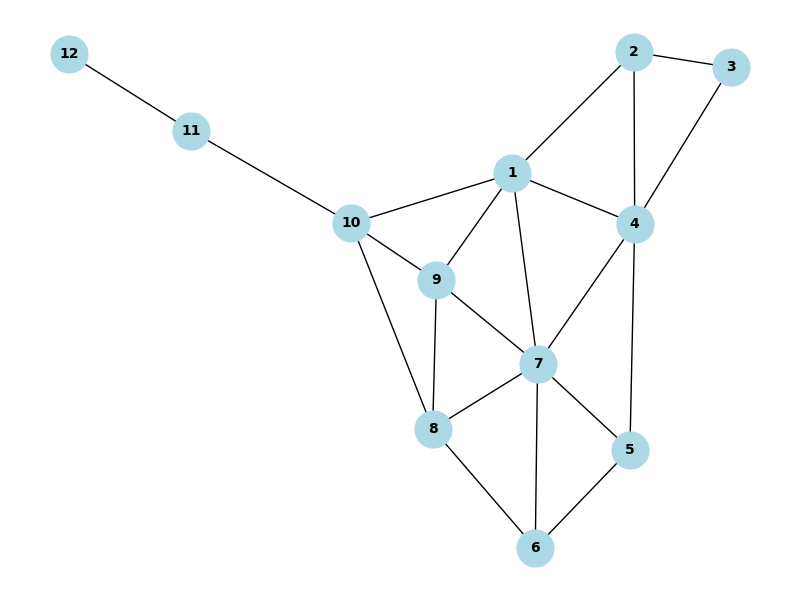
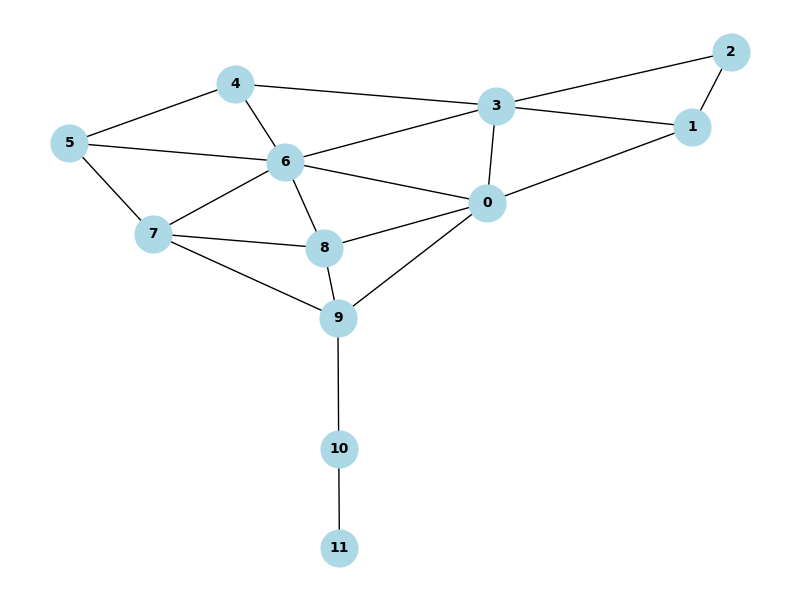
first working example with real data

diff --git a/SmartCityQCWizard/maxcut.py b/SmartCityQCWizard/maxcut.py
@@ -1,6 +1,9 @@
+import time
+
 import numpy as np
 import networkx as nx
 import matplotlib.pyplot as plt
+import pandas as pd
 
 from qibo import set_backend
 from qibo import Circuit, gates, callbacks
@@ -8,26 +11,59 @@ from qibo.models import AdiabaticEvolution
 
 from graph_utils import construct_graph, color_graph_by_bitstring
 from hamiltonians_utils import construct_H0, construct_H1
+from prepare_data import zones_data_by_datetime
 
 set_backend("numpy")
 
 # Define edges based on the user's topology
+# edges = [
+#     # (0, 1), (0, 2), (0, 3), (0, 6), (0, 8), (0, 10), (0, 11), (0, 12),
+#     (1, 2), (1, 4), (1, 7), (1, 9), (1, 10),
+#     (2, 3), (2, 4),
+#     (3, 4),
+#     (4, 5), (4, 7),
+#     (5, 6), (5, 7),
+#     (6, 8), (6, 7),
+#     (7, 8), (7, 9),
+#     (8, 9), (8, 10),
+#     (9, 10),
+#     (10, 11),
+#     (11, 12)
+# ]
+
 edges = [
-    # (0, 1), (0, 2), (0, 3), (0, 6), (0, 8), (0, 10), (0, 11), (0, 12),
-    (1, 2), (1, 4), (1, 7), (1, 9), (1, 10),
-    (2, 3), (2, 4),
-    (3, 4),
-    (4, 5), (4, 7),
-    (5, 6), (5, 7),
-    (6, 8), (6, 7),
+    (0, 1), (0, 3), (0, 6), (0, 8), (0, 9),
+    (1, 2), (1, 3),
+    (2, 3),
+    (3, 4), (3, 6),
+    (4, 5), (4, 6),
+    (5, 7), (5, 6),
+    (6, 7), (6, 8),
     (7, 8), (7, 9),
-    (8, 9), (8, 10),
+    (8, 9),
     (9, 10),
-    (10, 11),
-    (11, 12)
+    (10, 11)
 ]
 
-G, adjacency_matrix = construct_graph(edges=edges)
+# load data for a specific datetime
+df = pd.read_csv("unique_attendance_15/presenza_15_010824-140824.csv")
+datetime = "2024-08-01 23:45:00"
+
+zones_data = zones_data_by_datetime(df=df, datetime=datetime)
+print(f"Data zone by zone:\n{zones_data}")
+
+weights = []
+
+for edge in edges:
+    weights.append(
+        zones_data[str(int(edge[0])).zfill(3)] + zones_data[str(int(edge[1])).zfill(3)]
+    )
+
+# rescale into range [0,10]
+weights = np.array((weights - min(weights)) / (max(weights) - min(weights))) * 10
+print(f"Weights list: {weights}")
+
+G, adjacency_matrix = construct_graph(edges=edges, weights=weights)
 num_nodes = G.number_of_nodes()
 num_edges = len(G.edges)
 
@@ -51,7 +87,7 @@ evo = AdiabaticEvolution(
     h0 = h0,
     h1 = h1,
     s = lambda t: t,
-    dt = 0.1,
+    dt = 0.01,
     callbacks=[energy, state],
 )
 
@@ -63,10 +99,12 @@ c.add(gates.M(*range(num_nodes)))
 
 print("GS circuit: ", h0.expectation(c().state()))
 
+inital_time = time.time()
 # evolve
-evolved = evo(final_time=30, initial_state=c().state())
+evolved = evo(final_time=20, initial_state=c().state())
+print(f"\nTotal evolution time: {time.time() - inital_time}")
+
 idx = np.argmin(energy.results)
-last_idx = np.argmin(energy.results)
 
 # energies plot
 plt.figure(figsize=(8,6))
@@ -77,13 +115,28 @@ plt.savefig("./figures/energy.png")
 c = Circuit(num_nodes)
 c.add(gates.M(*range(num_nodes)))
 
-out = c(initial_state=state.results[idx], nshots=10000)
-freq = out.frequencies()
+out_best = c(initial_state=state.results[idx], nshots=10000)
+freq_best = out_best.frequencies()
 
-max_key = max(freq, key=lambda k: freq[k])
-print(max_key, freq[max_key])
+out_init = c(initial_state=state.results[0], nshots=10000)
+freq_init = out_init.frequencies()
+
+bitstring_best = max(freq_best, key=lambda k: freq_best[k])
+bitstring_init = max(freq_init, key=lambda k: freq_init[k])
 
 
-color_graph_by_bitstring(G, max_key, figname="final.png", weights=adjacency_matrix)
-color_graph_by_bitstring(G, "111111111111", figname="initial.png", weights=adjacency_matrix)
+print(f"bitstring best is {bitstring_best} with frequency {freq_best[bitstring_best]}")
+print(f"bitstring init is {bitstring_init} with frequency {freq_best[bitstring_init]}")
+
+# plot_probabilities_from_state(state=state[int(idx)])
+# Sort the dictionary by values in descending order and take the top 10 items
+sorted_items = sorted(freq_best.items(), key=lambda item: item[1], reverse=True)[:10]
+top_10_dict = dict(sorted_items)
+
+print("\n Showing the top states after optimization")
+for elem in top_10_dict:
+    print(f"bitstring: {elem}, with {top_10_dict[elem]} shots")  
+
+color_graph_by_bitstring(G, bitstring_best, figname="final", weights=adjacency_matrix)
+color_graph_by_bitstring(G, bitstring_init, figname="initial", weights=adjacency_matrix)
 

diff --git a/SmartCityQCWizard/plotscripts.py b/SmartCityQCWizard/plotscripts.py
@@ -1,0 +1,26 @@
+import matplotlib.pyplot as plt
+import numpy as np
+
+def generate_bitstring_combinations(n):
+    """Generate all bitstring combinations given bitstring length `n`."""
+    bitstrings = []
+    for i in range(2**n):
+        bitstrings.append(format(i, f"0{n}b"))
+    return bitstrings
+
+def plot_probabilities_from_state(state):
+    """Plot amplitudes for a given quantum `state`."""
+
+    bitstring = generate_bitstring_combinations(int(np.log2(len(state))))
+    
+    fig, ax = plt.subplots(figsize=(10, 5 * 6/8))
+    
+    ax.set_title('State visualization')
+    ax.set_xlabel('States')
+    ax.set_ylabel('Probability')
+    
+    for i, amp in enumerate(state):
+        ax.bar(bitstring[i], np.abs(amp)**2, color='#C194D8', edgecolor="black")
+        
+    plt.xticks(rotation=90)
+    plt.savefig("./figures/best_hist.png")

diff --git a/SmartCityQCWizard/graph_utils.py b/SmartCityQCWizard/graph_utils.py
@@ -36,12 +36,11 @@ def color_graph_by_bitstring(G, bitstring, figname, weights):
     nx.draw_networkx_edge_labels(G, pos, edge_labels=edge_labels, label_pos=0.5, font_size=12)  # label_pos=0.5 places them at the middle of the edges
     
     # Save the figure
-    plt.savefig(figname)
-    plt.show()
+    plt.savefig(f"./figures/{figname}.png")
 
 
 
-def construct_graph(edges):
+def construct_graph(edges, weights):
     """
     Construct graph and adjacency matrix given edges list.
     
@@ -58,8 +57,6 @@ def construct_graph(edges):
 
     num_nodes = G.number_of_nodes()
     num_edges = len(G.edges)
-
-    weights = np.random.uniform(0, 5, num_edges)
 
     # Initialize adjacency matrix with high weights
     high_weight = 0

diff --git a/SmartCityQCWizard/prepare_data.py b/SmartCityQCWizard/prepare_data.py
@@ -1,0 +1,17 @@
+import pandas as pd
+
+
+zones = [f"{i:03}" for i in range(1, 13, 1)]
+
+datetime = "2024-08-01 23:45:00"
+
+def zones_data_by_datetime(df, datetime):
+    filtered_df = df[df["datetime"] == datetime]
+    zones_data = {}
+    for zone in zones:
+        value = filtered_df.loc[filtered_df["areaAnalisi"] == f"Cagliari - {zone}", "value"].values
+        # shifting the label from "003" to "002" 
+        new_zone_number = int(zone) - 1
+        zones_data.update({f"{new_zone_number:03}" : value[0]})
+    return zones_data
+

diff --git a/SmartCityQCWizard/hamiltonians_utils.py b/SmartCityQCWizard/hamiltonians_utils.py
@@ -4,7 +4,7 @@ from qibo.symbols import I, X, Z
 # initial hamiltonian
 def construct_H0(graph):
     """Initial Hamiltonian"""
-    symb = sum(-X(i) for i in range(0, len(graph.nodes), 1))
+    symb = sum(-X(i) for i in range(0, len(graph.nodes)))
     return hamiltonians.SymbolicHamiltonian(symb)
 
 def construct_H1(graph, adjacency_matrix):
